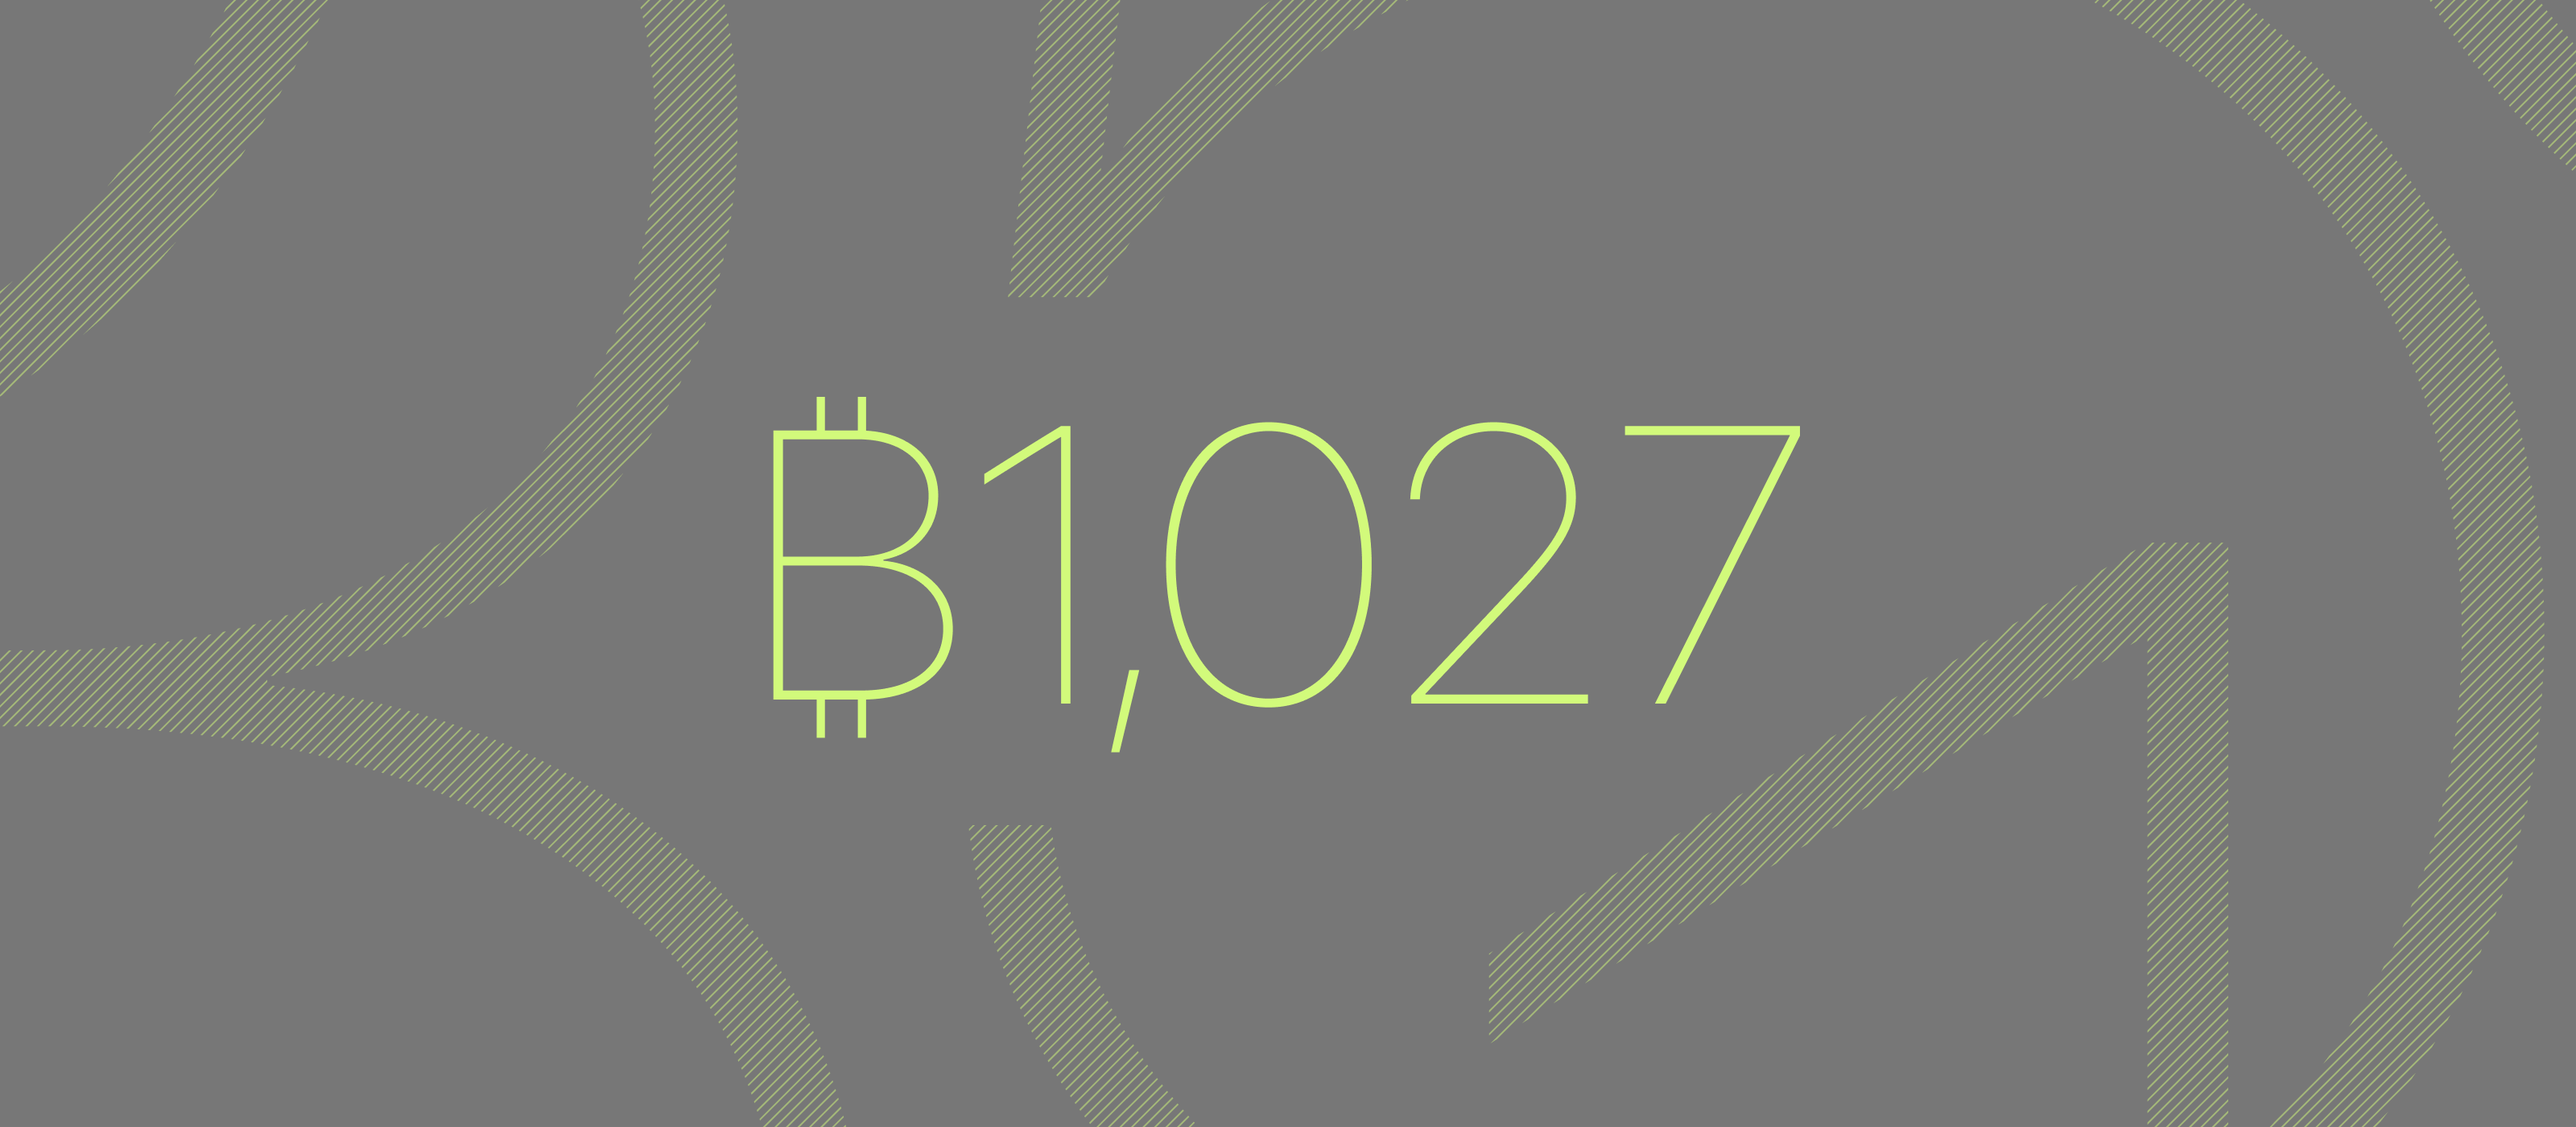
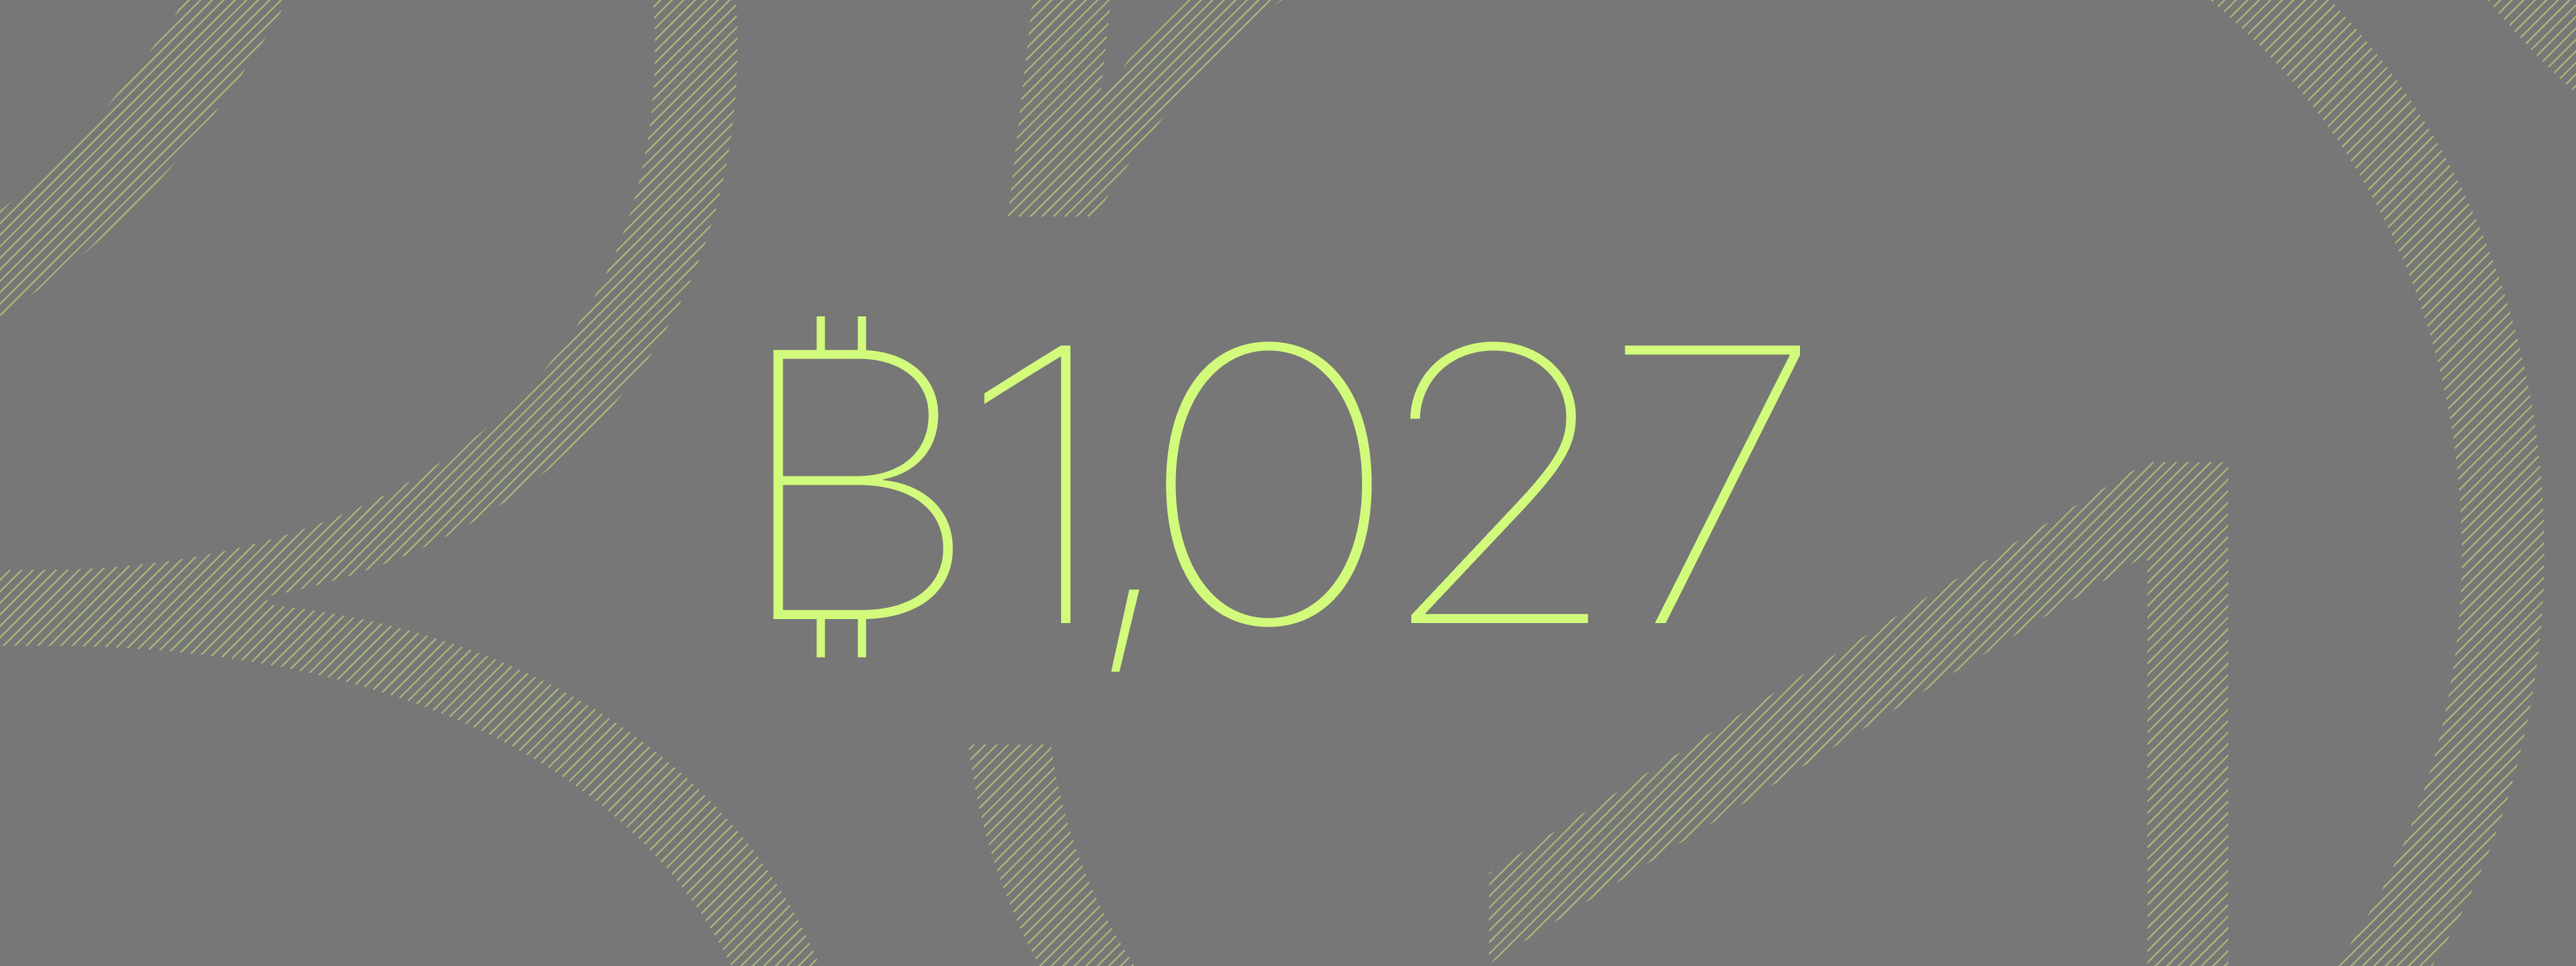
Minor image tweaks

diff --git a/guide/payments/units-and-symbols.md b/guide/payments/units-and-symbols.md
@@ -55,9 +55,9 @@ https://www.figma.com/file/VB3GQdAnhl8yta44DY3PSV/Bitcoin-Wallet-UI-Kit?node-id=
    retina = "/assets/images/guide/payments/units-and-symbols/units-and-symbols@2x.png"
    mobile = "/assets/images/guide/payments/units-and-symbols/units-and-symbols-mobile.png"
    mobileRetina = "/assets/images/guide/payments/units-and-symbols/units-and-symbols-mobile@2x.png"
-   alt-text = "Bitcoin value with annotations for parts of the number display."
+   alt-text = "The amount 1,027 bitcoin in large letters."
    width = 1600
-   height = 700
+   height = 600
    layout = "full-width"
 %}
 
